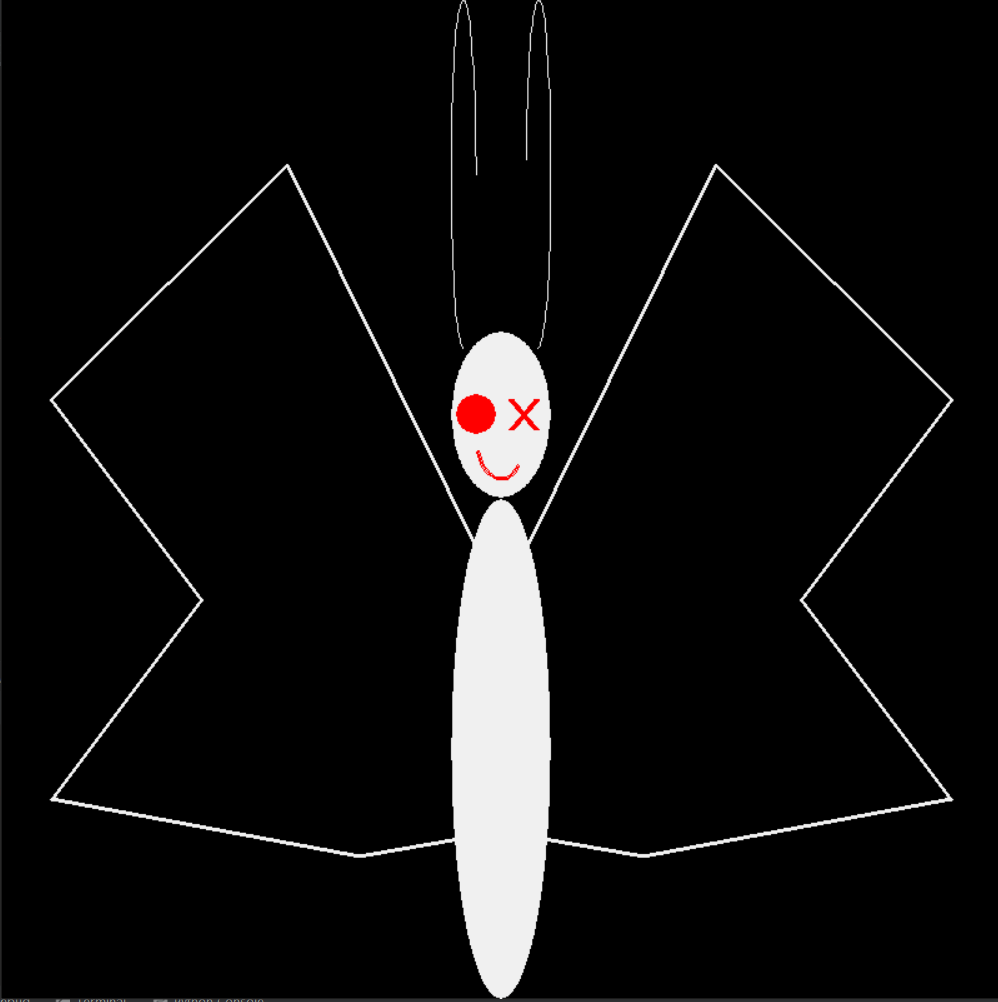
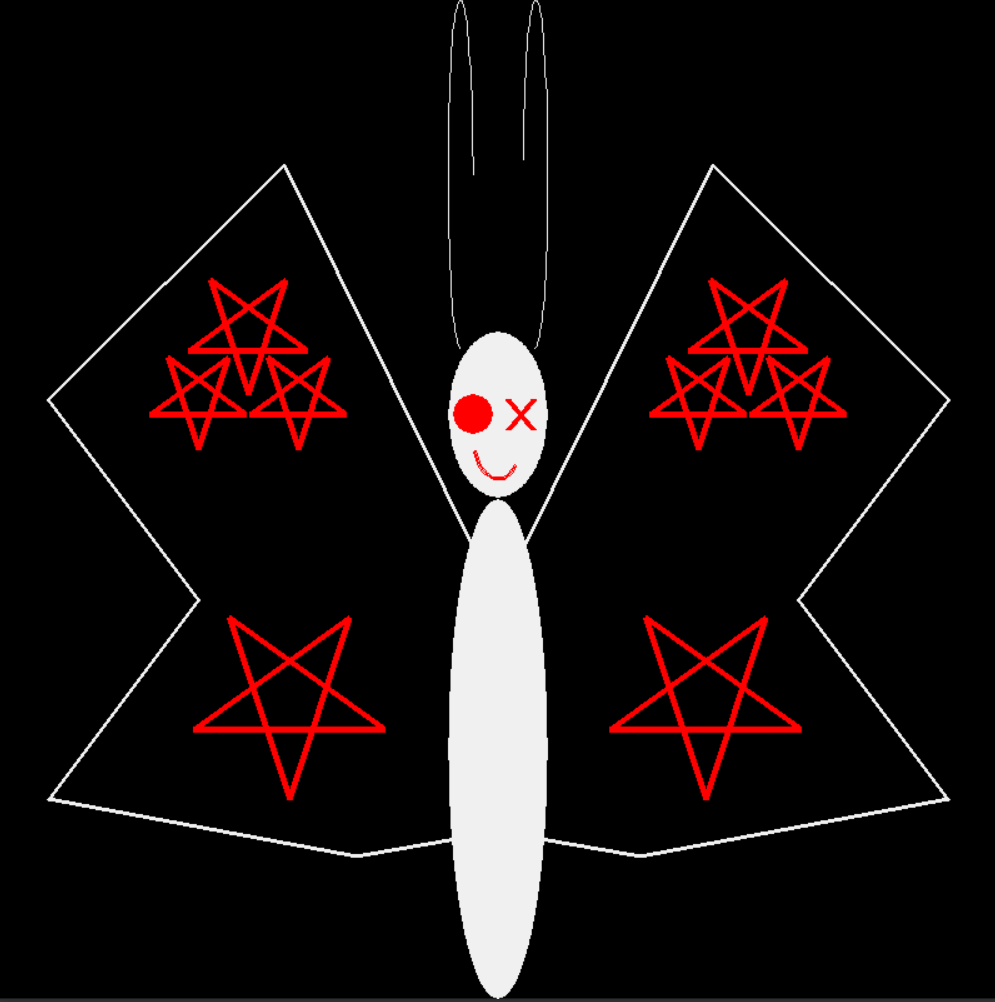
Upgraded rabbit
More Satanic

diff --git a/Lab3/Rabbit.py b/Lab3/Rabbit.py
@@ -1,5 +1,6 @@
 import pygame
 from pygame.draw import *
+import math
 
 pygame.init()
 
@@ -102,6 +103,14 @@ def draw_wings(surface, x, y, height, width, color):
         line(surface, color, (x + m[i - 1][0], y + m[i - 1][1]), (x + m[i][0], y + m[i][1]), 3)
         line(surface, color, (x + width - m[i - 1][0], y + m[i - 1][1]), (x + width - m[i][0], y + m[i][1]), 3)
 
+    n = [(x + width // 4, y + height // 3, 50), (x + 3 * width // 4, y + height // 3, 50),
+         (x + 7 * width // 24, y + 7 * height // 10, 80), (x + 17 * width // 24, y + 7 * height // 10, 80),
+         (x + width // 5, y + 2 * height // 5, 40), ( x + 3 * width // 10, y + 2 * height // 5, 40),
+         (x + 7 * width // 10, y + 2 * height // 5, 40), (x + 4 * width // 5, y + 2 * height // 5, 40)]
+
+    for i in n:
+        draw_star(surface, *i, RED)
+
 
 def draw_body(surface, x, y, height, width, color):
     '''
@@ -121,6 +130,30 @@ def draw_body(surface, x, y, height, width, color):
         '''
     ellipse(surface, color, (x + width // 2 - width // 20, y + height // 2, width // 10, height // 2))
     draw_wings(surface, x, y, height, width, color)
+
+
+def draw_star(surface, x, y, r, color):
+    '''
+    function draws Satan's star
+
+    Parameters
+    ----------
+    5 components pygame.surface, int, int, in,  tuple(int, int)
+    surface -- surface on which rabbit will be drawn
+    x, y -- coordinates of star center
+    r -- star radius
+    color -- star's color
+
+    Returns
+    -------
+    Return type is void
+    '''
+
+    for i in range(5):
+        k = (i + 2) % 5
+        p1 = (int(x + r * math.cos(2 * pi * i / 5 + pi / 10)), int(y + r * math.sin(2 * pi * i / 5 + pi / 10)))
+        p2 = (int(x + r * math.cos(2 * pi * k / 5 + pi / 10)), int(y + r * math.sin(2 * pi * k / 5 + pi / 10)))
+        line(surface, color, p1, p2, 5)
 
 
 def draw_rabbit(surface, x, y, height, width, color):
@@ -145,6 +178,9 @@ def draw_rabbit(surface, x, y, height, width, color):
 
 
 draw_rabbit(screen, 0, 0, screen_width, screen_height, WHITE)
+
+
+
 
 pygame.display.update()
 clock = pygame.time.Clock()
